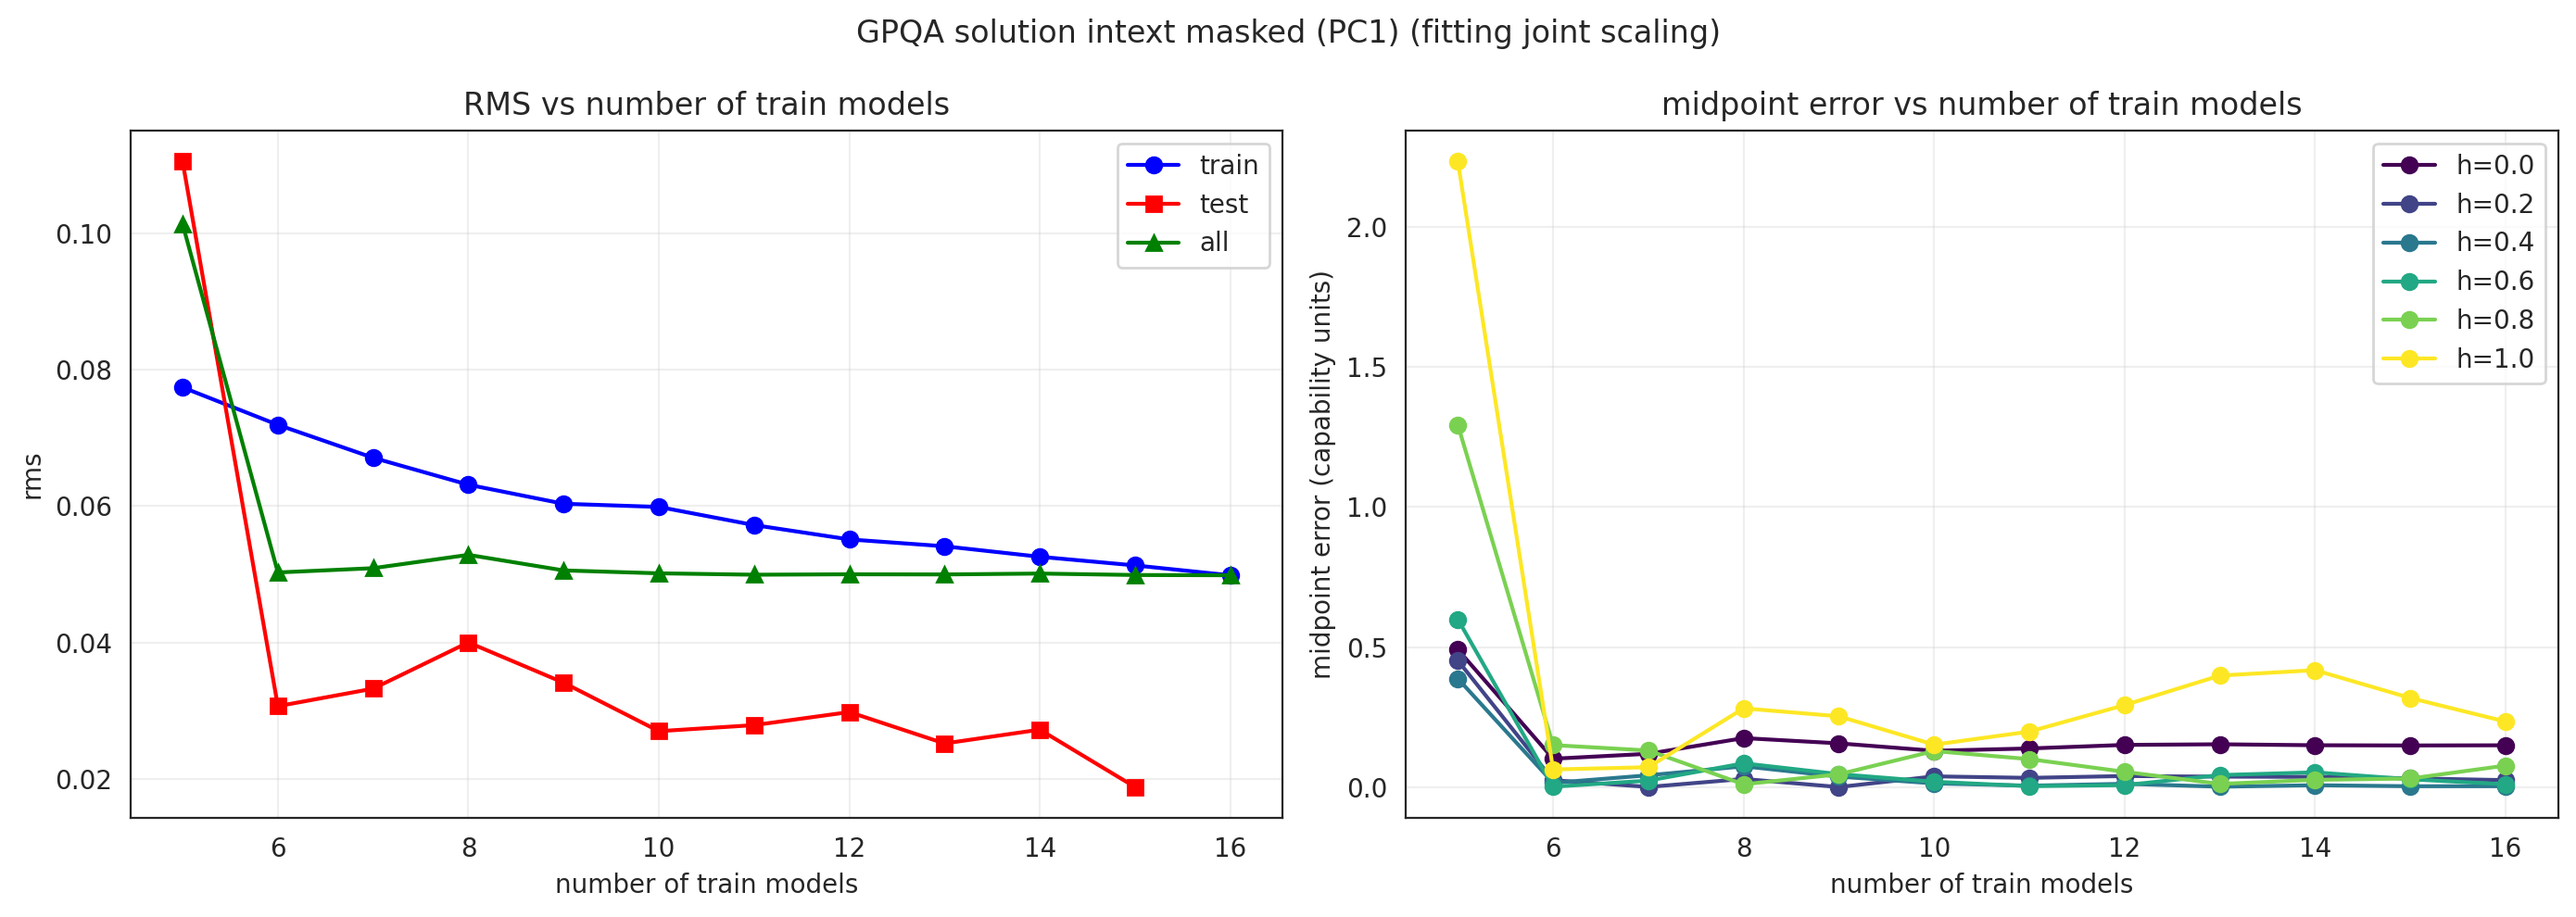
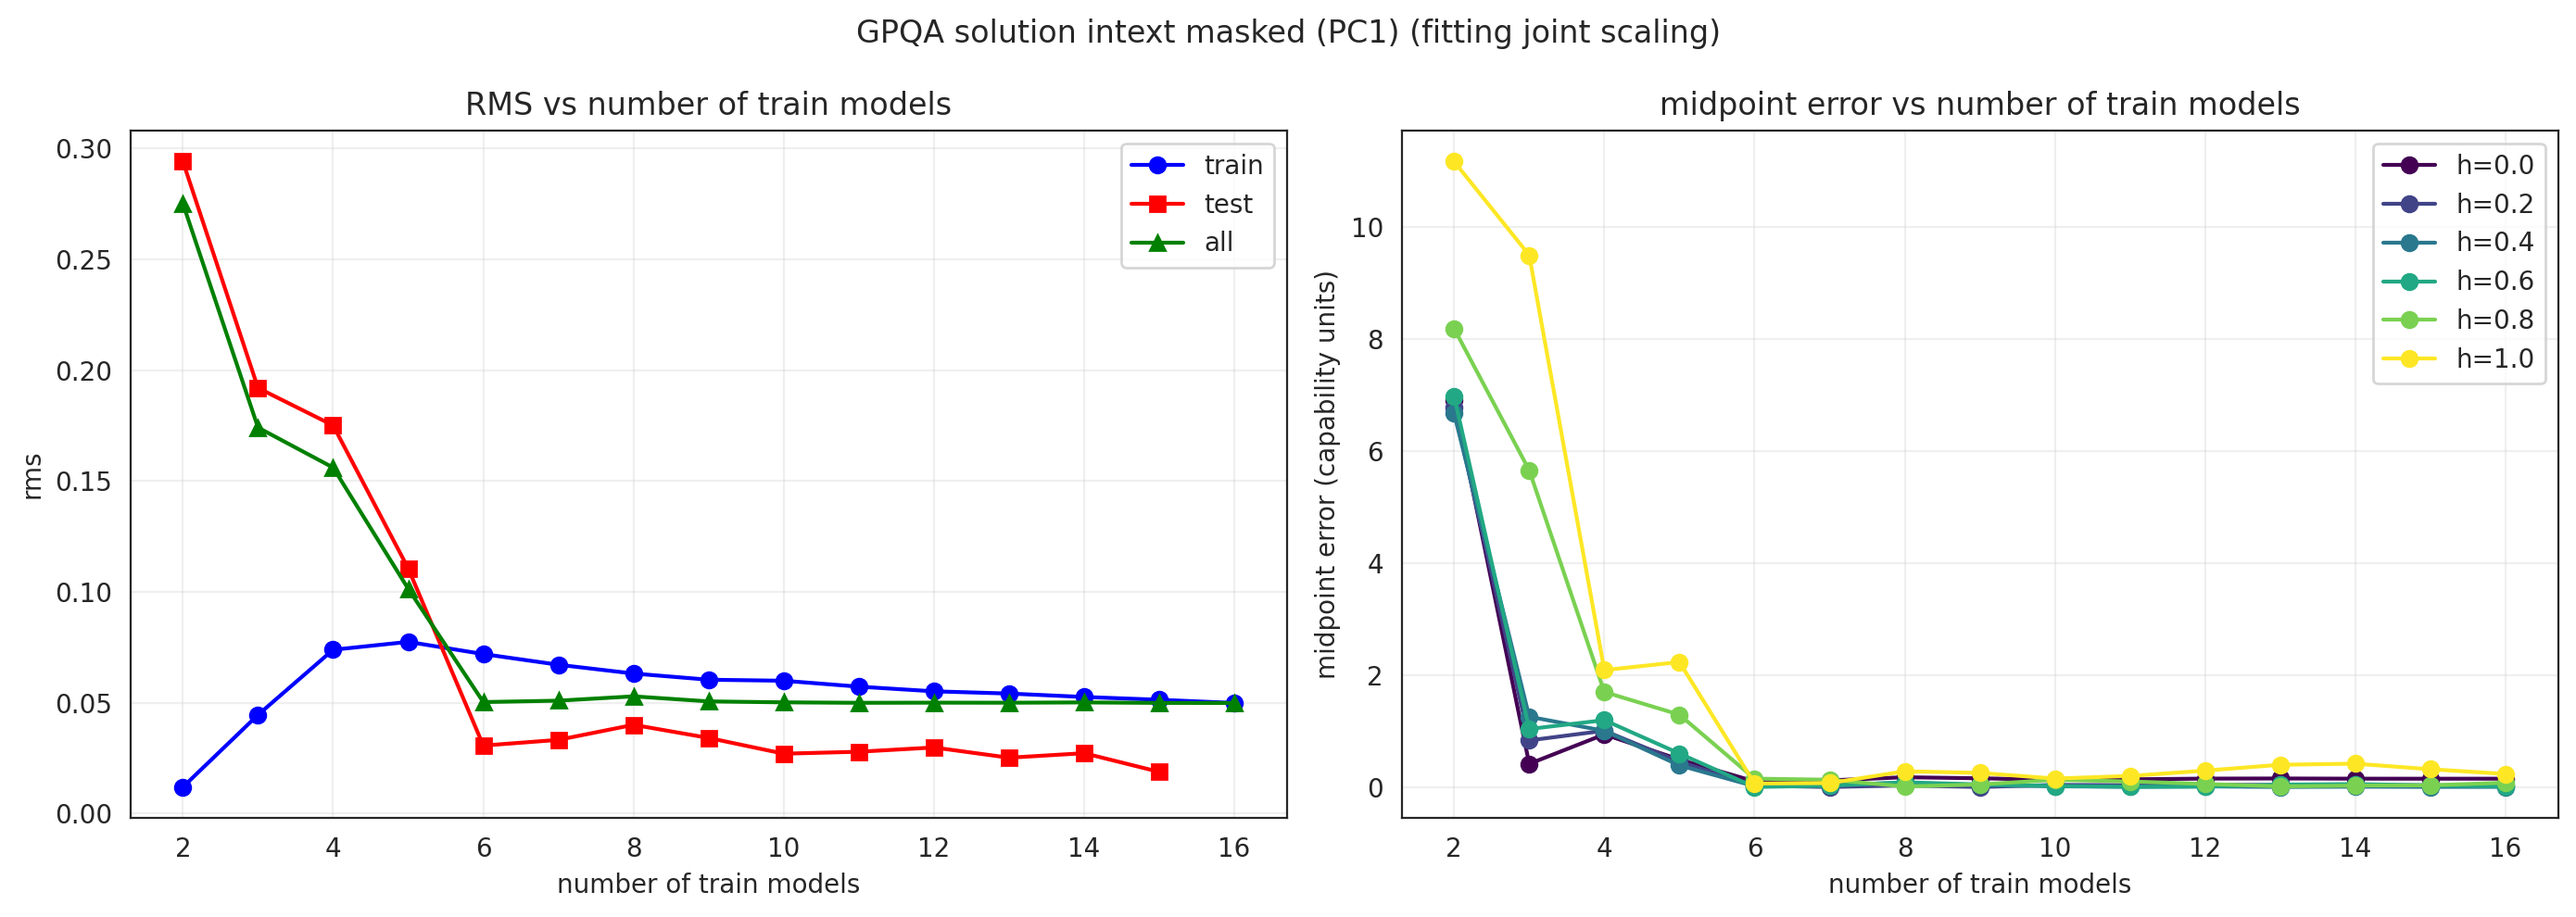
more plots; comparing ECI with PC's using RMS

diff --git a/suze_experiments/20260202/plot_helpers.py b/suze_experiments/20260202/plot_helpers.py
@@ -552,7 +552,7 @@ def run_model_sweep(
     from src.modelx.fitting import fit_joint_sigmoid
 
     rows: list[dict[str, float]] = []
-    for n in range(5, len(all_models) + 1):
+    for n in range(2, len(all_models) + 1):
         train_models = set(all_models[:n])
         test_models = set(all_models[n:])
 
@@ -1625,7 +1625,7 @@ def run_model_sweep_capability(
     individual_by_hint_all = fit_individual_sigmoids_by_hint_capability(df, fit_models=None, lower=lower_asymptote)
 
     rows: list[dict[str, float]] = []
-    for n in range(5, len(models_sorted) + 1):
+    for n in range(2, len(models_sorted) + 1):
         train_models = set(models_sorted[:n])
         test_models = set(models_sorted[n:])
 
